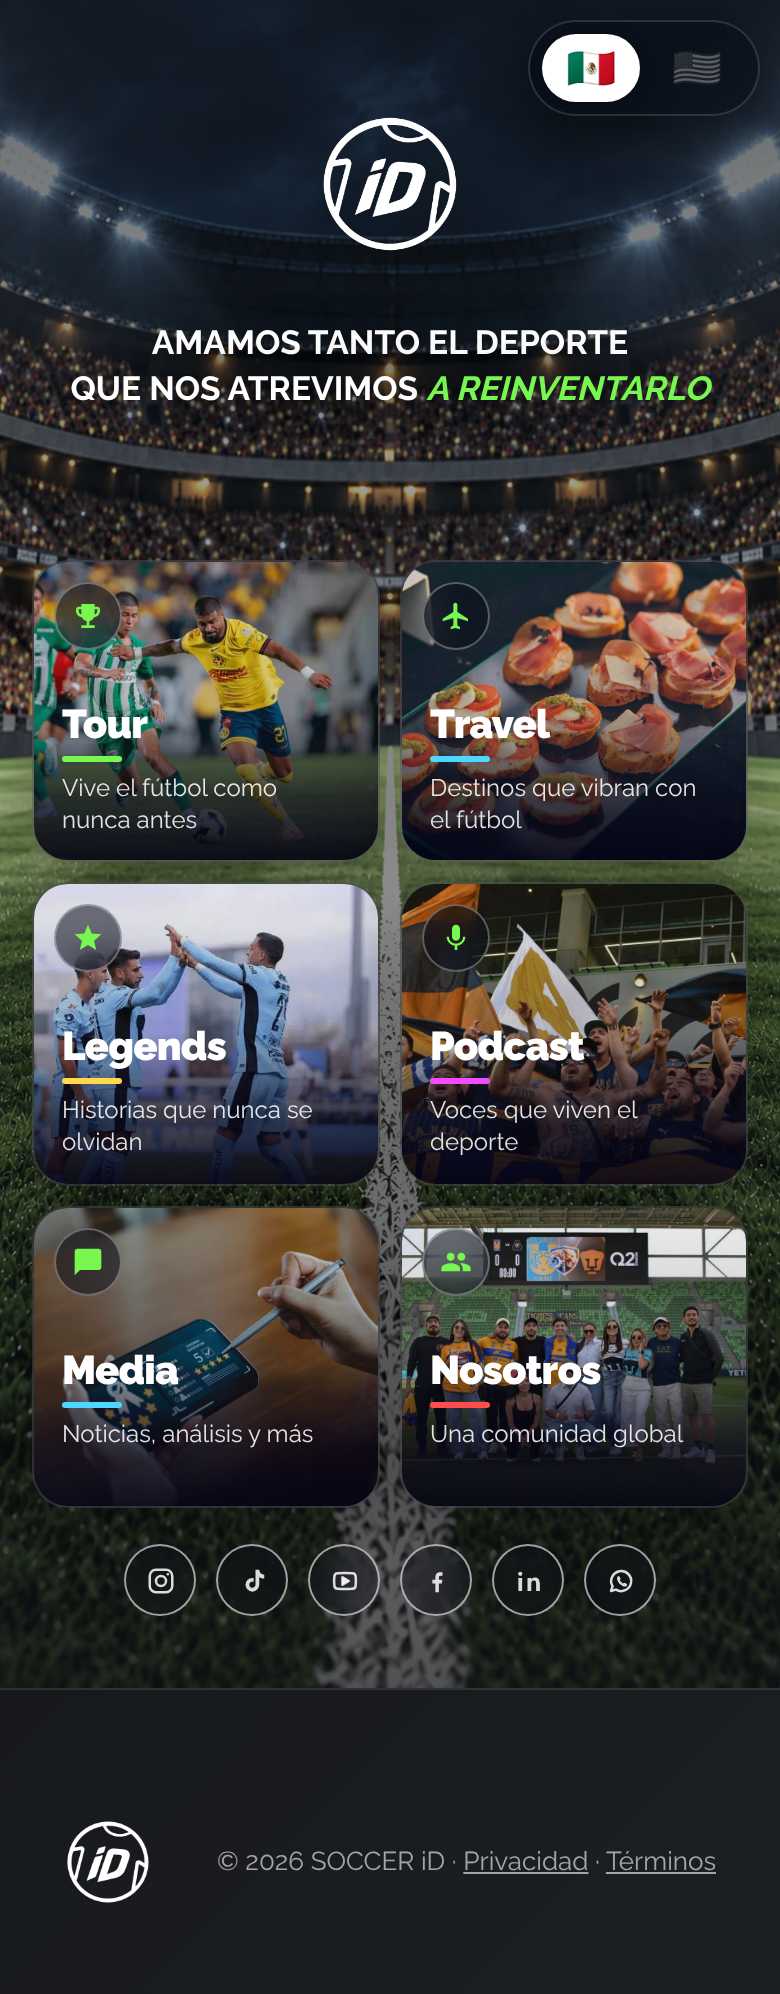
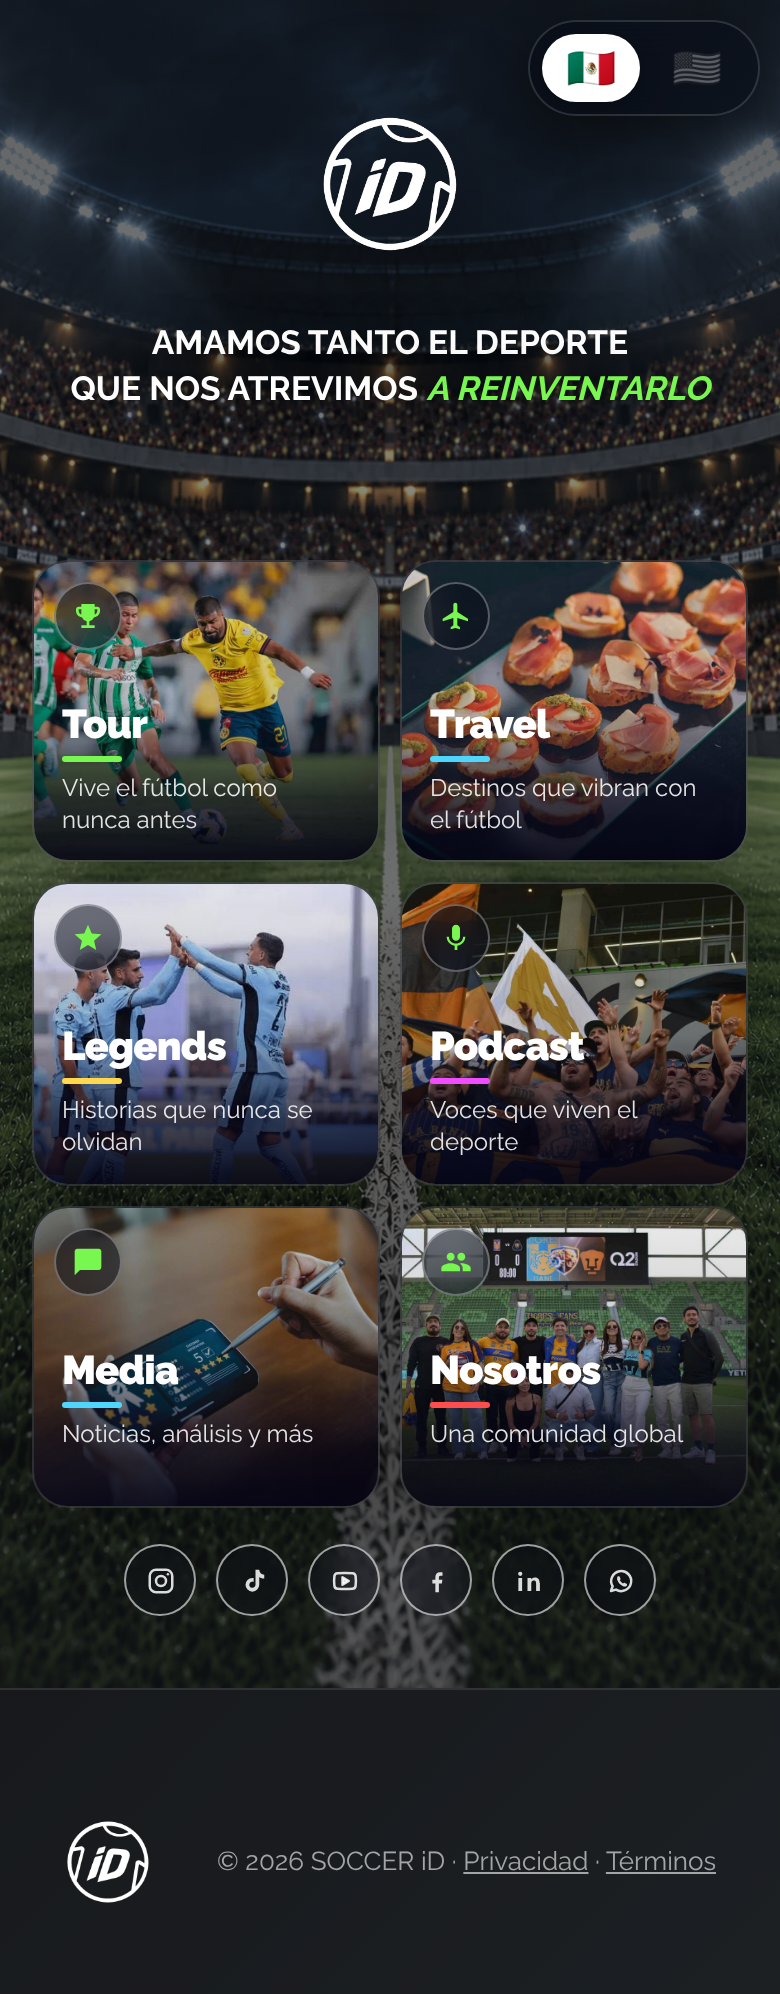
Inicio: velo propio para el fondo de celular, mate como en web
Claude-Session: https://claude.ai/code/session_01TBS5J98YBvjYTTdc9XtUtE

diff --git a/assets/css/inicio.css b/assets/css/inicio.css
@@ -111,6 +111,14 @@ body .lang-btn:not(.active) .lang-flag { filter: grayscale(1) opacity(0.6); }
 @media (min-width: 1025px) and (max-width: 1600px) { .redes-v2__chip small { display: none; } }
 
 /* ─── Celular y tableta ───────────────────────────────────────────── */
+/* La foto vertical es más luminosa que la horizontal, así que con el
+   mismo velo se veía viva y contrastada. Velo propio, calibrado midiendo
+   cielo, gradas y pasto contra la captura de web, para que quede igual
+   de mate. */
+@media (max-width: 1024px) {
+  .hero-image { filter: saturate(0.7) brightness(1.1) sepia(0.2); }
+  .hero-video-container::after { background: linear-gradient(180deg, rgba(18,20,24,0.70) 0%, rgba(18,20,24,0.45) 40%, rgba(18,20,24,0.74) 100%); }
+}
 /* La misma idea que en escritorio: isotipo, lema y las seis puertas en la
    primera pantalla, en dos columnas y tres filas. La banda de abajo es de
    la píldora del partido. */
